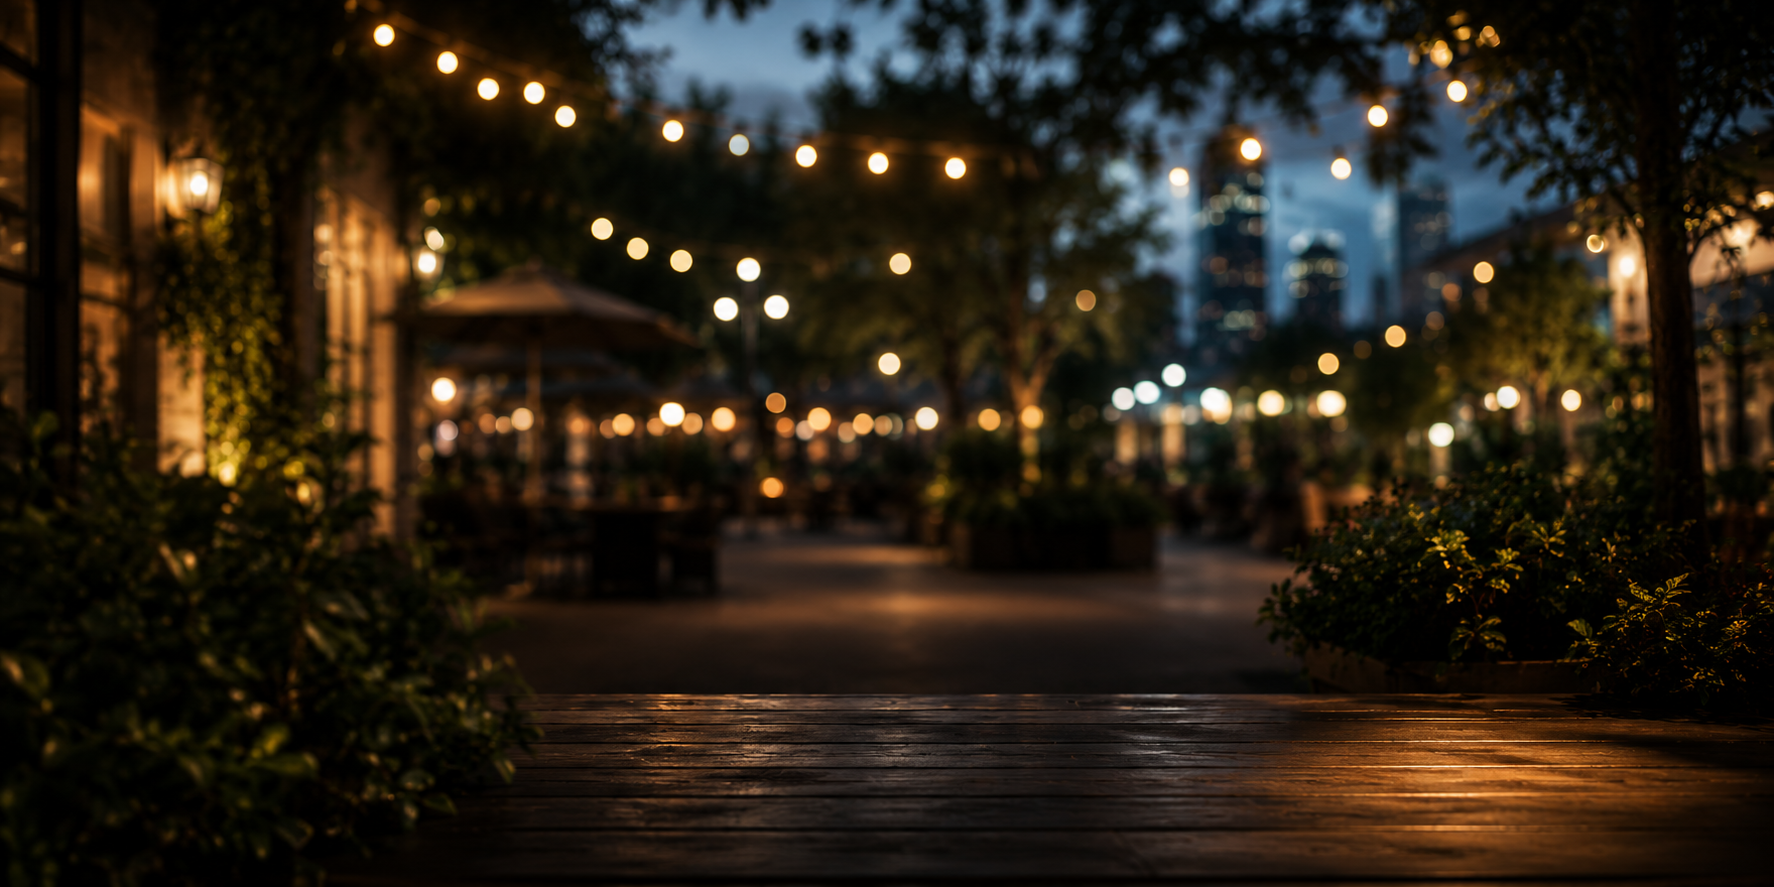
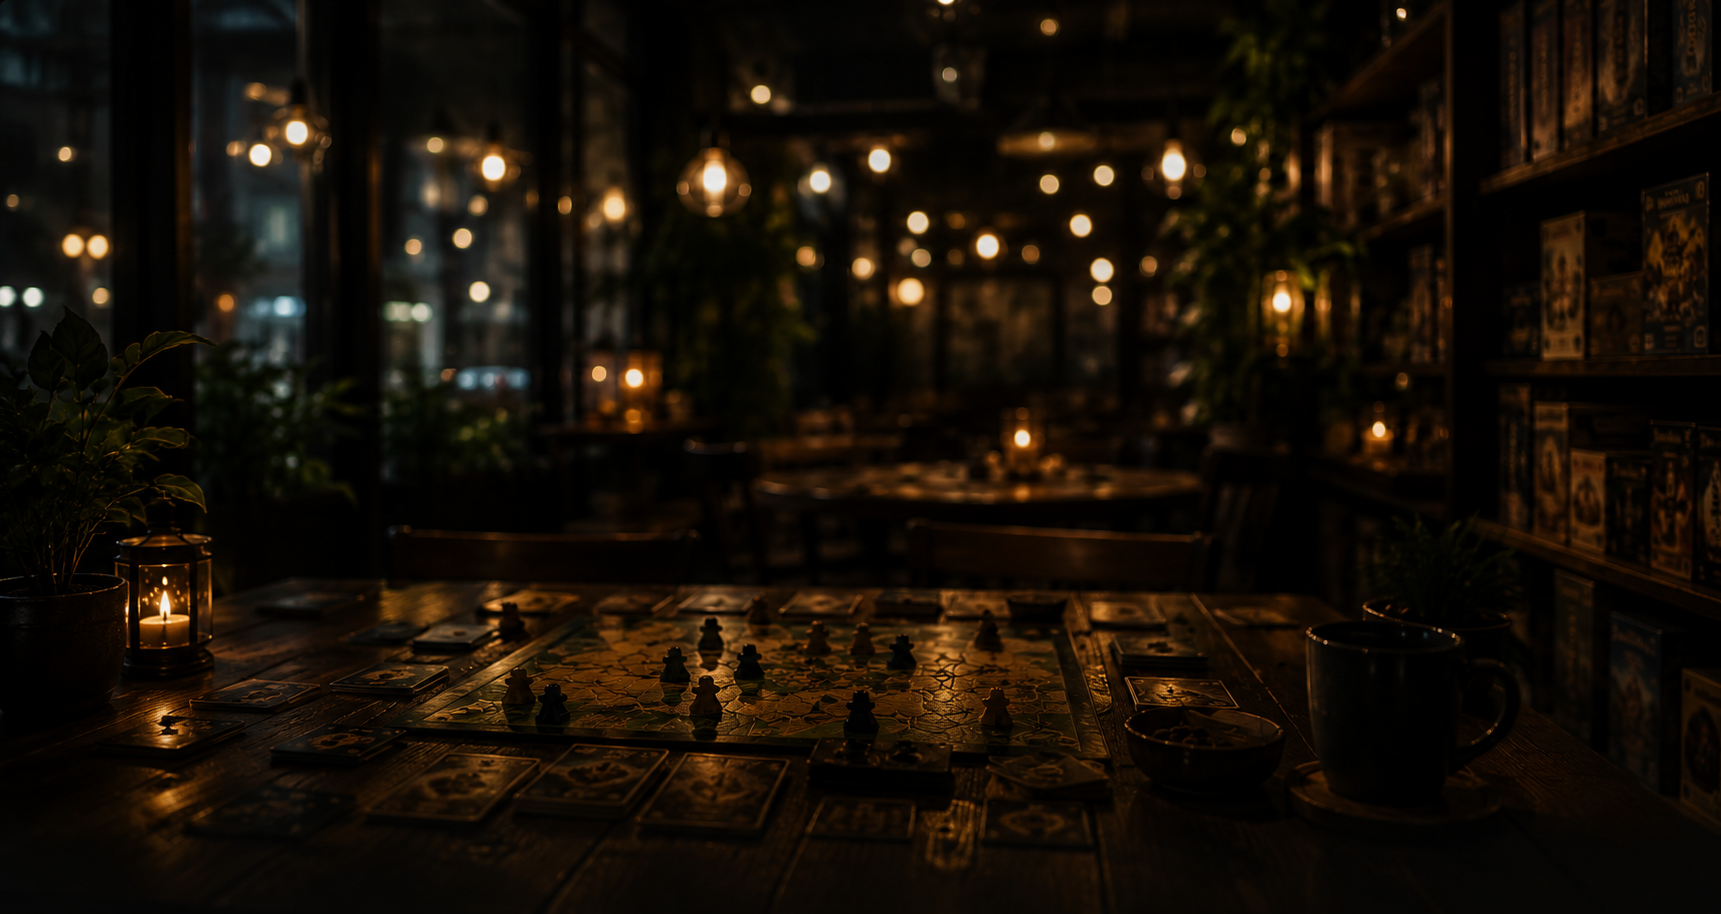
finished display event details and inited myEvents logic

diff --git a/frontend/src/pages/MyEvents.jsx b/frontend/src/pages/MyEvents.jsx
@@ -1,0 +1,111 @@
+import { useEffect } from "react";
+import { useSelector, useDispatch } from "react-redux";
+import { getMyEvents, updateEvent } from "../features/events/eventThunk";
+import EventsImgExplore from "../assests/defaultImgEvents.png";
+import { Users, MapPinned, CalendarDays, PencilLine, Ban } from "lucide-react";
+import { useNavigate, useParams } from "react-router-dom";
+
+export default function MyEvents() {
+  const { status, error, myEvents } = useSelector((state) => state.event);
+  const dispatrch = useDispatch();
+  const navigate = useNavigate();
+
+  useEffect(() => {
+    dispatrch(getMyEvents());
+  }, [dispatrch]);
+
+  const handleEditEvent = (id) => {
+    navigate(`/event/${id}/edit`);
+  };
+
+  if (status === "loading")
+    return <span className="loading loading-spinner"> Loading events...</span>;
+  if (status === "failed") return <p className="text-red-500">{error}</p>;
+
+  const formatDate = (dateString) => {
+    const date = new Date(dateString);
+    return date.toLocaleDateString("en-US", {
+      weekday: "long",
+      month: "long",
+      day: "numeric",
+      hour: "numeric",
+      minute: "2-digit",
+    });
+  };
+  return (
+    <>
+      <div className="relative z-10 flex w-full min-h-screen items-start pl-14 pt-20">
+        <div className="w-full lg:w-3/4 text left">
+          <h1 className="text lg:text-5xl font-bold leadig-tight text-primary">
+            My Events
+          </h1>
+          <p className="text tracking-widest text-primary text-xl opacity-50 mt-3">
+            Events you created and are managing
+          </p>
+          <div className="flex flex-col gap-4 mt-4">
+            {myEvents.map((event) => (
+              <div
+                key={event.id}
+                className="flex gap-4 bg-base-200 rounded-xl p-4"
+              >
+                <img
+                  src={EventsImgExplore}
+                  alt=""
+                  className="w-48 h-36 rounded-xl object-cover flex-shrink-0"
+                />
+
+                <div className="flex flex-col flex-1 gap-2">
+                  <span className="badge border-green-400 text-green-300 font-bold uppercase w-fit">
+                    {event.status}
+                  </span>
+                  <h3 className="text-primary text-xl font-bold">
+                    {event.title}
+                  </h3>
+                  <p className="text-primary opacity-50">{event.description}</p>
+                  <div className="flex gap-6 mt-2">
+                    <span className="flex items-center gap-2 text-primary">
+                      <CalendarDays className="w-4 h-4" />
+                      {formatDate(event.event_start)}
+                    </span>
+                    <span className="flex items-center gap-2 text-primary">
+                      <MapPinned className="w-4 h-4" />
+                      {event.place_name}
+                    </span>
+                    <span className="flex items-center gap-2 text-primary">
+                      <Users className="w-4 h-4" />
+                      {event.max_participants} spots
+                    </span>
+                  </div>
+                </div>
+
+                <div className="flex flex-col gap-2 justify-center">
+                  <button
+                    className="btn btn-outline border-orange-351 text-orange-350 gap-6 text-xl hover:bg-orange-400 hover:text-black py-6"
+                    type="button"
+                    onClick={() => handleEditEvent(event.id)}
+                  >
+                    <PencilLine className="w-6 h-6" />
+                    Edit Event
+                  </button>
+                  <button
+                    className="btn btn-outline border-error text-error gap-4 text-xl hover:bg-orange-400 hover:text-black mt-3 py-6"
+                    type="button"
+                    onClick={async () => {
+                      await dispatrch(
+                        updateEvent({ id: event.id, status: "cancelled" }),
+                      ).unwrap();
+                      dispatrch(getMyEvents());
+                    }}
+                  >
+                    <Ban className="w-6 h-6 text-error" />
+                    Cancel Event
+                  </button>
+                </div>
+              </div>
+            ))}
+          </div>
+        </div>
+      </div>
+    </>
+  );
+}

diff --git a/frontend/src/pages/EventDetails.jsx b/frontend/src/pages/EventDetails.jsx
@@ -19,6 +19,10 @@ import {
   UserStar,
   PartyPopper,
   ExternalLink,
+  PencilLine,
+  Trash2,
+  CircleX,
+  CalendarSync 
 } from "lucide-react";
 import heroEventDetail from "../assests/hero_eventDetail.png";
 import defultAvatar from "../assests/default_avatar.png";
@@ -74,6 +78,9 @@ export default function EventDetails() {
   const handleCancelEvent = () => {
     dispatch(updateEvent({ id, status: "cancelled" }));
   };
+  const handleCloseEvent = () => {
+    dispatch(updateEvent({ id, status: "closed" }));
+  };
 
   const handleReopenEvent = () => {
     dispatch(updateEvent({ id, status: "open" }));
@@ -107,8 +114,9 @@ export default function EventDetails() {
         className="relative rounded-xl overflow-hidden mb-2 h-[320px]"
         style={{
           backgroundImage: `url(${heroEventDetail})`,
-          backgroundSize: "cover",
+          backgroundSize: "contain",
           backgroundPosition: "center",
+          backgroundRepeat: "no-repeat",
         }}
       >
         <div className="relative z-10 flex flex-col justify-between h-full px-10 pb-6 pt-10">
@@ -121,7 +129,7 @@ export default function EventDetails() {
             </button>
           </div>
           <div className="max-w-2xl mt-2">
-            <span className="badge border-orange-400 bg-black/50 text-orange-300 uppercase">
+            <span className="badge border-green-400 bg-black/50 text-green-300 text-xl uppercase">
               {currentEvent.status}
             </span>
             <h2 className="text text-4xl text-primary font-bold mt-">
@@ -163,35 +171,60 @@ export default function EventDetails() {
           {isCreator ? (
             <div className="flex gap-3">
               <button
-                className="btn bg-orange-500 hover:bg-orange-600 text-white border-none rounded-2xl px-6 py-6"
+                className="btn btn-outline border-orange-351 px-10 py-6 text-orange-350 gap-6 text-xl hover:bg-orange-400 hover:text-black"
                 type="button"
                 onClick={() => navigate(`/event/${id}/edit`)}
               >
                 {" "}
+                <PencilLine className="w-6 h-6"/>
                 Edit Event
               </button>
-              {currentEvent.status === "cancelled" ? (
+
+              {currentEvent.status === "open" && (
+                <>
+                  <button
+                    className="btn btn-outline border-orange-351 px-10 py-6 text-orange-350 gap-6 text-xl hover:bg-orange-400 hover:text-black"
+                    type="button"
+                    onClick={handleCloseEvent}
+                  >
+                    <CalendarSync className=" w-7 h-7" />
+                    Close Event
+                  </button>
+                  <button
+                    className="btn btn-outline border-error px-10 py-6 text-error gap-6 text-xl hover:bg-orange-400 hover:text-black"
+                    type="button"
+                    onClick={handleCancelEvent}
+                  >
+                    <CircleX className="w-7 h-7"/>
+                    Cancel Event
+                  </button>
+                </>
+              )}
+              {currentEvent.status === "cancelled" && (
                 <button
-                  className="btn bg-orange-500 hover:bg-orange-600 text-white border-none rounded-2xl px-6 py-6"
+                  className="btn btn-outline border-orange-351 px-10 py-6 text-orange-350 gap-6 text-xl hover:bg-orange-400 hover:text-black"
                   type="button"
                   onClick={handleReopenEvent}
                 >
                   Reopen Event
                 </button>
-              ) : (
+              )}
+              {currentEvent.status === "closed" && (
                 <button
-                  className="btn bg-orange-500 hover:bg-orange-600 text-white border-none rounded-2xl px-6 py-6"
+                  className="btn btn-outline border-orange-351 px-10 py-6 text-orange-350 gap-6 text-xl hover:bg-orange-400 hover:text-black"
                   type="button"
-                  onClick={handleCancelEvent}
+                  onClick={handleReopenEvent}
                 >
-                  Cancel Event
+                  Reopen Registration
                 </button>
               )}
+
               <button
-                className="btn bg-orange-500 hover:bg-orange-600 text-white border-none rounded-2xl px-6 py-6"
+                className="btn btn-outline border-error px-10 py-6 text-error gap-6 text-xl hover:bg-orange-400 hover:text-black"
                 type="button"
                 onClick={handleDeleteEvent}
               >
+                <Trash2/>
                 Delete Event
               </button>
             </div>

diff --git a/backend/src/controllers/event_controller.js b/backend/src/controllers/event_controller.js
@@ -72,6 +72,19 @@ const getEventById = async (req, res) => {
   }
 }
 
+const getMyEvents =async (req, res) => {
+  try {
+    const creator_id = req.user.user_id
+    const myEvents = await eventModel.getMyEvents(creator_id)
+    if(!myEvents || myEvents.length === 0) {
+      return res.status(404).json({message: "You haven't created any events yet"})
+    }
+    return res.status(200).json({message:"Your all events details:", myEvents})
+  } catch (error) {
+    return res.status(500).json({message: "Server error", error:error.message})
+  }
+}
+
 const getAllEvents = async (req, res) => {
   try {
     const events = await eventModel.getAllEvents()
@@ -163,11 +176,13 @@ const updateEventContr = async (req, res) => {
     return res.status(500).json({message: "Server error", error: error.message})    
   }
 }
-
+ 
+ 
 module.exports = {
   createEvent,
   getEventById,
   getAllEvents,
   deleteEvent,
-  updateEventContr
+  updateEventContr,
+  getMyEvents
 }

diff --git a/frontend/src/features/events/eventThunk.js b/frontend/src/features/events/eventThunk.js
@@ -156,6 +156,22 @@ const deleteEventById = createAsyncThunk(
   }
 )
 
+const getMyEvents = createAsyncThunk(
+  "event/getMyEvents",
+  async(_, {rejectWithValue}) => {
+    try {
+      const {data} = await api.get('/event/my')
+      return data
+    } catch (error) {
+        const message =
+        error.response?.data.message ||
+        error.message ||
+        "Failed to get mly event";
+      return rejectWithValue(message);
+    }
+  }
+)
+
 export {
   createEvent,
   getAllEvents,
@@ -163,5 +179,6 @@ export {
   joinToEvent,
   cancelEvent,
   updateEvent,
-  deleteEventById
+  deleteEventById,
+  getMyEvents
 };

diff --git a/frontend/src/features/events/eventSlice.js b/frontend/src/features/events/eventSlice.js
@@ -1,10 +1,12 @@
+import { act } from "react";
 import { AUTH_STATUS } from "../auth/authConstants";
-import { createEvent, getAllEvents, getEventById, joinToEvent, cancelEvent, updateEvent, deleteEventById } from "./eventThunk";
+import { createEvent, getAllEvents, getEventById, joinToEvent, cancelEvent, updateEvent, deleteEventById, getMyEvents } from "./eventThunk";
 import { createSlice } from "@reduxjs/toolkit";
 
 const initialState = {
   events: [],
   participants: [],
+  myEvents: [],
   currentEvent: null,
   status: AUTH_STATUS.IDLE,
   error: null,
@@ -105,6 +107,17 @@ const eventSlice = createSlice({
         state.currentEvent = null
       })
       .addCase(deleteEventById.rejected, (state, action)=> {
+        state.status = AUTH_STATUS.FAILED
+        state.error = action.payload
+      })
+      .addCase(getMyEvents.pending, (state) =>{
+        state.status = AUTH_STATUS.LOADING
+      })
+      .addCase(getMyEvents.fulfilled, (state, action) => {
+        state.status = AUTH_STATUS.SUCCEEDED
+        state.myEvents = action.payload.myEvents
+      })
+      .addCase(getMyEvents.rejected, (state, action) => {
         state.status = AUTH_STATUS.FAILED
         state.error = action.payload
       })

diff --git a/backend/src/models/events_model.js b/backend/src/models/events_model.js
@@ -90,10 +90,19 @@ const createEvent = async(
     return newUpdateEvent  
   }
 
+
+  const getMyEvents = (creator_id) => {
+    return db('events')
+    .where('creator_id', creator_id)
+    .select('*')
+    .orderBy('event_start','asc')
+  }
+
   module.exports = {
     createEvent,
     getEventById,
     getAllEvents,
     deleteEvent,
-    updateEvent
+    updateEvent,
+    getMyEvents
   }

diff --git a/frontend/src/pages/Explore.jsx b/frontend/src/pages/Explore.jsx
@@ -7,7 +7,7 @@ import {
   MapPinned,
   CalendarDays,
   Search,
-  PencilRuler,
+  PencilLine ,
 } from "lucide-react";
 import EventsImgExplore from "../assests/defaultImgEvents.png";
 
@@ -87,10 +87,10 @@ export default function Events() {
               </select>
             </div>
             <button
-              className="flex items-center gap-2 rounded-xl border border-white bg-black/40 px-4 text-primary text-xl transition-all hover:bg-white-400 hover:text-white"
+              className="flex items-center gap-4 rounded-xl border border-white bg-black/40 px-14 text-primary text-xl transition-all hover:bg-white-400 hover:text-white"
             onClick={() => navigate('/event/create')}
             >
-              <PencilRuler className="w-8 h-8 text-primary"  />
+              <PencilLine  className="w-7 h-7 text-primary"  />
               Create Event
             </button>
           </div>

diff --git a/backend/src/routers/event_router.js b/backend/src/routers/event_router.js
@@ -4,7 +4,8 @@ const {
   getEventById,
   getAllEvents,
   deleteEvent,
-  updateEventContr
+  updateEventContr,
+  getMyEvents
   
 } = require('../controllers/event_controller')
 const {joinEvent, cancelEvent} = require('../controllers/event_participant_controller')
@@ -16,6 +17,7 @@ const router = express.Router()
 
 router.post('/create', authenticateJWT, createEvent)
 router.get('/events', getAllEvents)
+router.get('/my', authenticateJWT, getMyEvents)
 router.get('/:id', getEventById)
 router.delete('/:id', authenticateJWT, deleteEvent)
 router.post('/:id/join', authenticateJWT, joinEvent)

diff --git a/frontend/src/App.jsx b/frontend/src/App.jsx
@@ -16,6 +16,7 @@ import HowToWorks from './pages/HowToWorks'
 import Meetups from './pages/Meetups'
 import CreateEvent from "./pages/CreateEvent"
 import ProfileView from "./pages/ProfileView"
+import MyEvents from "./pages/MyEvents"
 
 function App() {
 
@@ -32,6 +33,7 @@ function App() {
       <Route path="/event/:id" element= {<ProtectedRoute><EventDetails /></ProtectedRoute>} />
       <Route path="/event/create" element= {<ProtectedRoute><CreateEvent /></ProtectedRoute>} />
       <Route path="/event/:id/edit" element= {<ProtectedRoute><CreateEvent /></ProtectedRoute>} />
+      <Route path="/event/my" element= {<ProtectedRoute><MyEvents /></ProtectedRoute>} />
 
       <Route path="/about" element={<AboutUs/>} />
       <Route path="/explore" element={<Explore/>} />